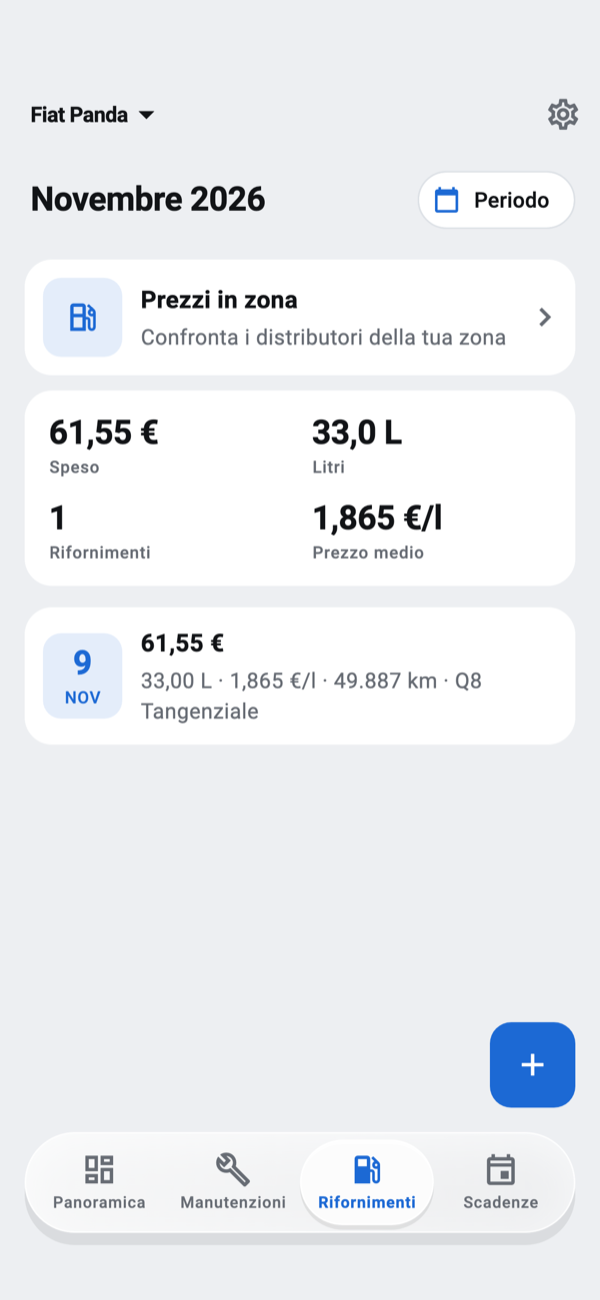
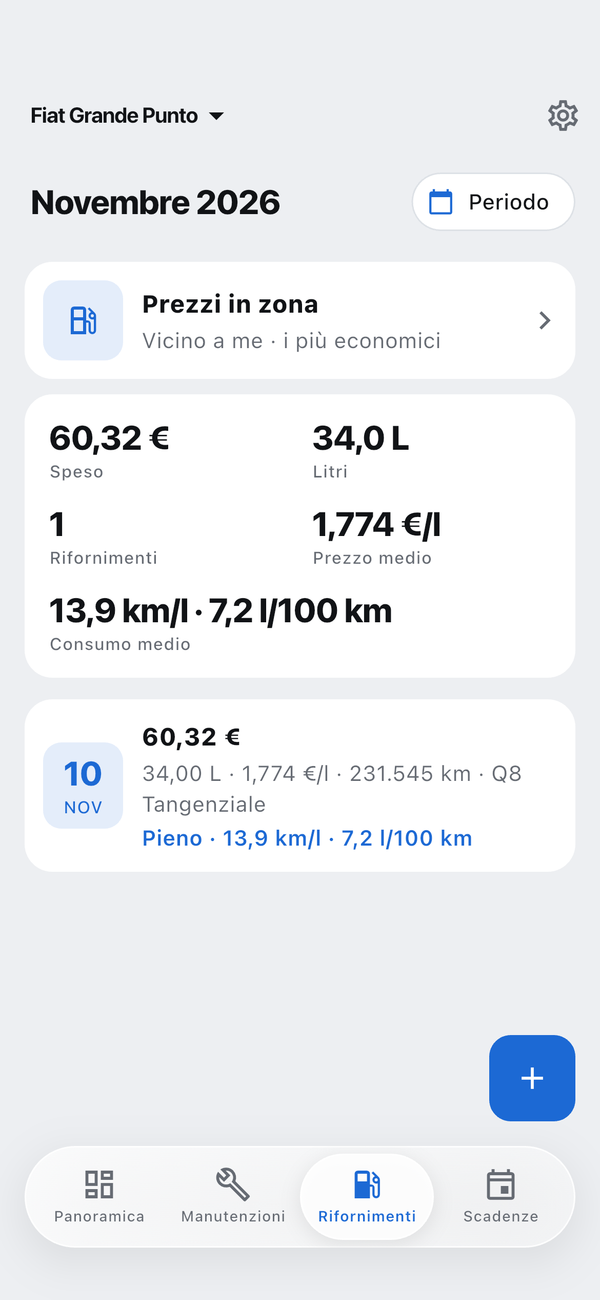
Fuel consumption from one full tank to the next; terms updated

diff --git a/privacy.html b/privacy.html
@@ -11,7 +11,7 @@
 <main class="wrap">
 <p class="back"><a href="./">‹ MyCar</a></p>
 <h1>Privacy e condizioni</h1>
-<p class="muted">Aggiornate il 24 novembre 2026. Gli stessi testi sono nell'app, in Impostazioni › Privacy e condizioni.</p>
+<p class="muted">Aggiornate il 25 novembre 2026. Gli stessi testi sono nell'app, in Impostazioni › Privacy e condizioni.</p>
 <h2>Privacy</h2>
 <section class="card"><h3>In breve</h3><ul><li>MyCar non ha account, server, pubblicità né statistiche.</li><li>Quello che inserisci (veicoli, scadenze, manutenzioni, rifornimenti, documenti, foto, parcheggi) resta solo su questo telefono. Chi ha fatto l'app non riceve e non vede nessun tuo dato.</li><li>MyCar è fatta da Domenico Cerone, un privato, senza scopo di lucro.</li></ul></section>
 <section class="card"><h3>Cosa esce dal telefono, solo quando usi quella funzione</h3><ul><li>Posizione: per «Vicino a me» e per il parcheggio. La via viene cercata dal servizio indirizzi del telefono (Apple o Google), che riceve le coordinate.</li><li>Mappe: arrivano da OpenFreeMap (stradale) ed Esri (satellite). Come ogni sito, ricevono l'indirizzo IP e la zona che stai guardando.</li><li>Prezzi dei carburanti: lo stesso file per tutti, scaricato dagli open data del Ministero delle Imprese e del Made in Italy (MIMIT).</li><li>Check auto: la targa che scrivi si apre sui siti VerificaTarga e RevisioniOnline, che non sono di MyCar e hanno le loro regole sulla privacy.</li><li>Percorso: «Portami lì» apre Mappe di Apple o Google Maps con la destinazione.</li><li>Aggiornamenti: l'app chiede a Shorebird se c'è una versione nuova, mandando la versione installata e un codice casuale che non dice chi sei.</li><li>Versione: all'apertura l'app legge un piccolo file dalla pagina di MyCar su GitHub, per sapere se la tua versione è ancora supportata. GitHub riceve l'indirizzo IP, come per ogni sito.</li><li>Backup e riepilogo PDF: vanno solo dove scegli tu (iCloud, Drive, un messaggio).</li></ul></section>
@@ -21,13 +21,13 @@
 <h2>Condizioni d'uso</h2>
 <section class="card"><h3>L'app</h3><ul><li>MyCar è gratuita: niente abbonamenti, acquisti o pubblicità. La usi così com'è, senza garanzie.</li><li>Installala solo dalla pagina ufficiale, <a href="https://domenicocerone99.github.io/mycar-app/">https://domenicocerone99.github.io/mycar-app/</a>: copie arrivate da altre parti potrebbero essere modificate.</li><li>Se la tua versione non è più supportata, l'app te lo dice e ti guida a installare quella nuova, prima con il backup dei tuoi dati.</li></ul></section>
 <section class="card"><h3>Date e calcoli</h3><ul><li>Le scadenze di bollo, revisione, assicurazione e patente sono calcolate dalle regole generali e da quello che inserisci: sono un promemoria, non un documento ufficiale.</li><li>Controlla sempre le date ufficiali: bollettino, libretto, polizza, Portale dell'Automobilista. MyCar non risponde di multe, more o scadenze mancate.</li><li>Le notifiche dipendono dal telefono (permessi, risparmio energetico, non disturbare) e possono non arrivare.</li></ul></section>
-<section class="card"><h3>Prezzi e parcheggio</h3><ul><li>I prezzi dei carburanti sono quelli comunicati dai gestori al MIMIT e possono non essere aggiornati: vale quello alla pompa.</li><li>La posizione del parcheggio dipende dal GPS e può essere imprecisa.</li></ul></section>
+<section class="card"><h3>Prezzi, consumi e parcheggio</h3><ul><li>I prezzi dei carburanti sono quelli comunicati dai gestori al MIMIT e possono non essere aggiornati: vale quello alla pompa.</li><li>Il consumo è calcolato con i litri e i km che inserisci: è preciso quanto lo sono loro.</li><li>La posizione del parcheggio dipende dal GPS e può essere imprecisa.</li></ul></section>
 <section class="card"><h3>I tuoi dati</h3><ul><li>Restano sul telefono e sono sotto la tua responsabilità: fai il backup ogni tanto. Chi ha fatto l'app non può recuperare dati persi.</li></ul></section>
 <section class="card"><h3>Servizi di altri</h3><ul><li>Mappe, siti di Check auto e dati del MIMIT sono dei loro proprietari e possono cambiare o smettere di funzionare.</li><li>Le licenze dei componenti sono in Impostazioni › Licenze open source.</li></ul></section>
 <hr>
 <div lang="en">
 <h1>Privacy and terms</h1>
-<p class="muted">Updated 24 November 2026.</p>
+<p class="muted">Updated 25 November 2026.</p>
 <h2>Privacy</h2>
 <section class="card"><h3>In short</h3><ul><li>MyCar has no account, no server, no ads and no analytics.</li><li>What you enter (vehicles, deadlines, services, fill-ups, documents, photos, parking) stays on this phone only. The app's author neither receives nor sees any of your data.</li><li>MyCar is made by Domenico Cerone, a private person, not for profit.</li></ul></section>
 <section class="card"><h3>What leaves the phone, only when you use that feature</h3><ul><li>Location: for "Near me" and parking. The street is looked up by the phone's address service (Apple or Google), which receives the coordinates.</li><li>Maps: they come from OpenFreeMap (streets) and Esri (satellite). Like any website, they receive your IP address and the area you look at.</li><li>Fuel prices: the same file for everyone, downloaded from the open data of the Italian Ministry of Enterprises and Made in Italy (MIMIT).</li><li>Car check: the plate you type opens on the VerificaTarga and RevisioniOnline websites, which are not MyCar's and have their own privacy rules.</li><li>Directions: "Take me there" opens Apple Maps or Google Maps with the destination.</li><li>Updates: the app asks Shorebird whether a new version is out, sending the installed version and a random code that does not say who you are.</li><li>Version: when it opens, the app reads a small file from the MyCar page on GitHub, to know whether your version is still supported. GitHub receives your IP address, like any website.</li><li>Backup and PDF summary: they go only where you choose (iCloud, Drive, a message).</li></ul></section>
@@ -37,7 +37,7 @@
 <h2>Terms of use</h2>
 <section class="card"><h3>The app</h3><ul><li>MyCar is free: no subscriptions, purchases or ads. You use it as it is, with no warranty.</li><li>Install it only from the official page, <a href="https://domenicocerone99.github.io/mycar-app/">https://domenicocerone99.github.io/mycar-app/</a>: copies from elsewhere may have been changed.</li><li>If your version is no longer supported, the app says so and guides you to install the new one, backing up your data first.</li></ul></section>
 <section class="card"><h3>Dates and calculations</h3><ul><li>Road tax, inspection, insurance and licence deadlines are worked out from the general rules and from what you enter: they are a reminder, not an official document.</li><li>Always check the official dates: tax notice, registration document, policy, the Italian Motorist Portal. MyCar is not liable for fines, surcharges or missed deadlines.</li><li>Notifications depend on the phone (permissions, battery saving, do not disturb) and may not arrive.</li></ul></section>
-<section class="card"><h3>Prices and parking</h3><ul><li>Fuel prices are those stations report to MIMIT and may be out of date: the price at the pump is the one that counts.</li><li>The parking position depends on GPS and may be inaccurate.</li></ul></section>
+<section class="card"><h3>Prices, consumption and parking</h3><ul><li>Fuel prices are those stations report to MIMIT and may be out of date: the price at the pump is the one that counts.</li><li>The consumption is worked out from the litres and km you enter: it is as accurate as they are.</li><li>The parking position depends on GPS and may be inaccurate.</li></ul></section>
 <section class="card"><h3>Your data</h3><ul><li>It stays on the phone and is your responsibility: back it up now and then. The app's author cannot recover lost data.</li></ul></section>
 <section class="card"><h3>Other people's services</h3><ul><li>Maps, car check websites and MIMIT data belong to their owners and may change or stop working.</li><li>Component licences are in Settings › Open source licenses.</li></ul></section>
 </div>

diff --git a/index.html b/index.html
@@ -46,14 +46,14 @@
 <div class="shots">
   <img src="shots/panoramica.png" alt="Panoramica dell'auto con km, scadenze e azioni rapide" width="600" height="1300">
   <img src="shots/scadenze.png" alt="Elenco delle scadenze con i giorni che mancano" width="600" height="1300">
-  <img src="shots/rifornimenti.png" alt="Rifornimenti del mese con spesa, litri e prezzo medio" width="600" height="1300">
+  <img src="shots/rifornimenti.png" alt="Rifornimenti del mese con spesa, litri, prezzo medio e consumo" width="600" height="1300">
   <img src="shots/prezzi.png" alt="Distributori vicini con i prezzi del giorno" width="600" height="1300">
 </div>
 
 <h2>Cosa fa</h2>
 <div class="features">
   <section class="card"><h3>Scadenze</h3><p>Bollo, RC Auto con i 15 giorni di tolleranza, revisione, tagliando a data o a km, gomme, patente. Più avvisi per scadenza.</p></section>
-  <section class="card"><h3>Rifornimenti</h3><p>Importo, litri o prezzo al litro: il terzo si calcola da solo. Spese del mese e consumi.</p></section>
+  <section class="card"><h3>Rifornimenti</h3><p>Importo, litri o prezzo al litro: il terzo si calcola da solo. Spese del mese e consumo da un pieno all'altro.</p></section>
   <section class="card"><h3>Prezzi carburanti</h3><p>I prezzi del giorno dal Ministero, vicino a te o nel tuo comune, in elenco o sulla mappa.</p></section>
   <section class="card"><h3>Parcheggio</h3><p>Salva dove hai lasciato l'auto, con piano e nota, e ritrovala con il percorso a piedi.</p></section>
   <section class="card"><h3>Manutenzioni e documenti</h3><p>Interventi con officina, costo e foto. Libretto, assicurazione e patente sempre con te.</p></section>
